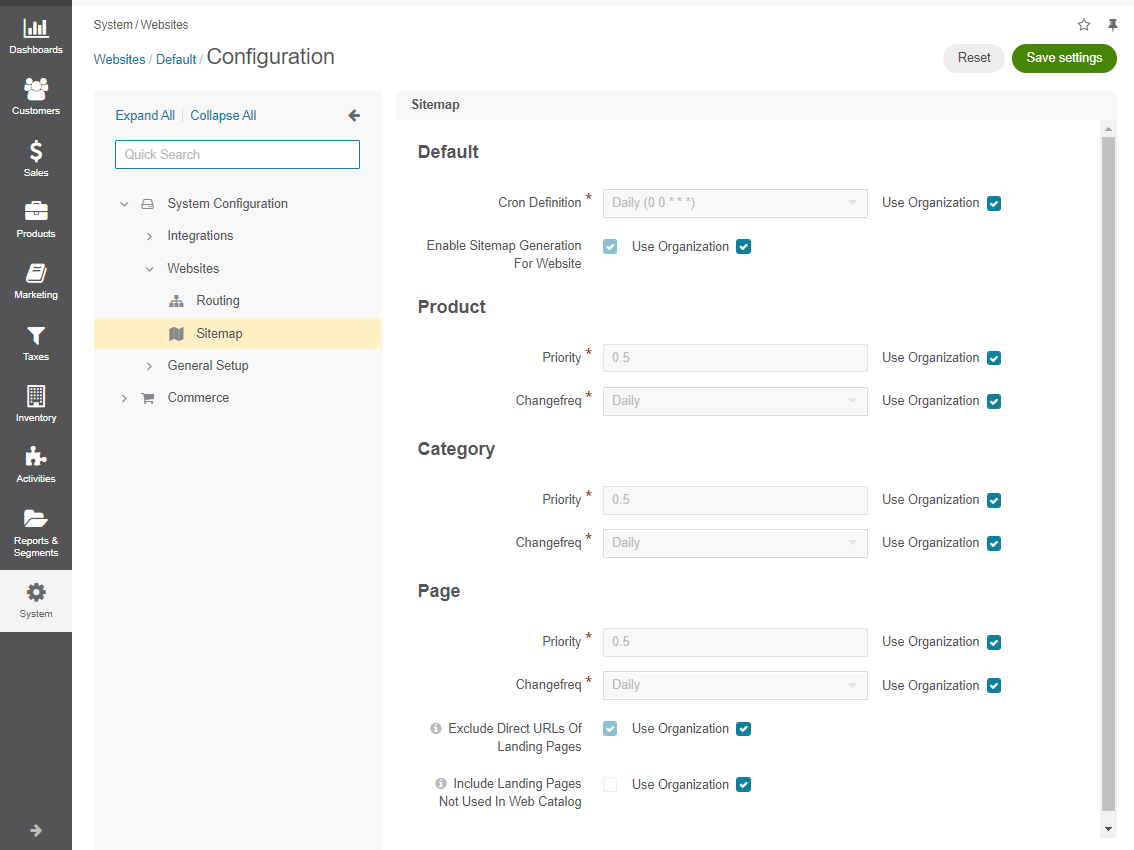
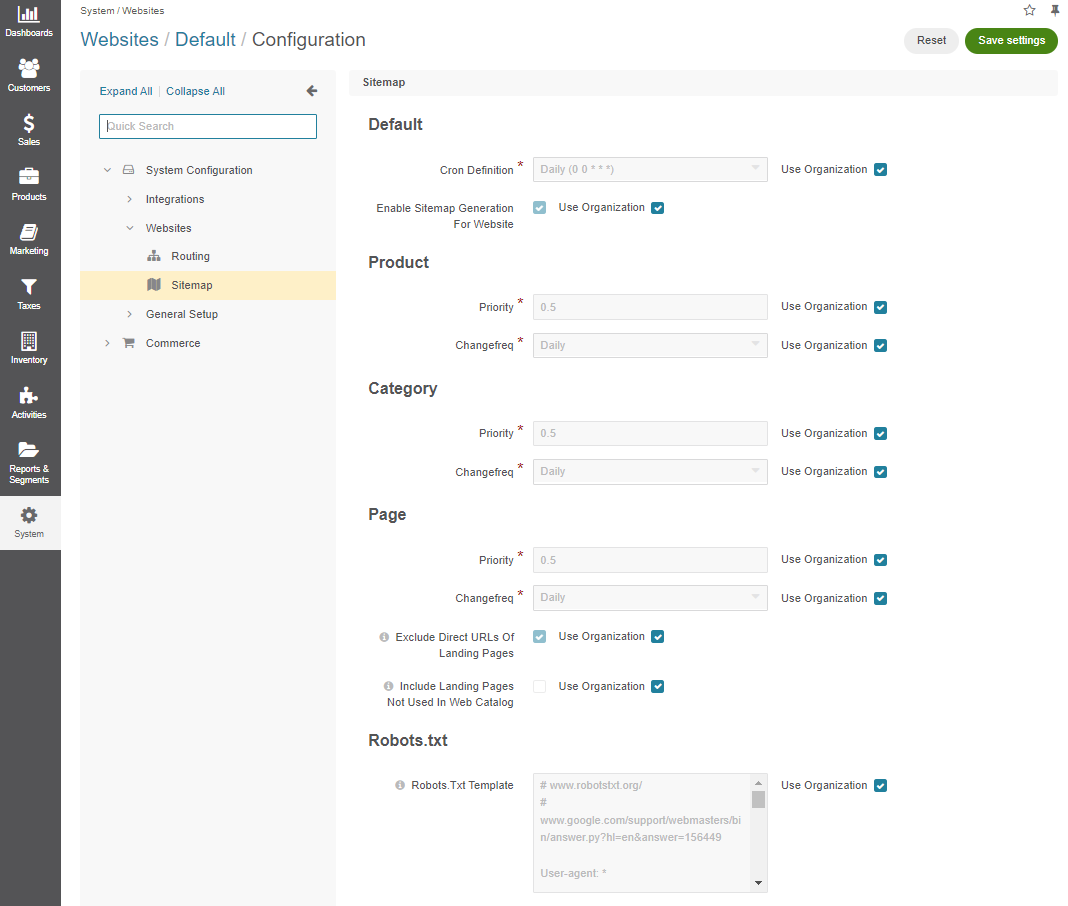
BB-22555: Robots.txt Configuration (#37774)
* BB-23715: Update robots.txt.dist files with default content (#37746)

* BB-23713: Add system configuration option
- added system configuration "Robots.txt Template";
- added RobotsTxtTemplateManager to simplify work with robots.txt.dist template;
- added RobotsTxtTemplateSystemConfigFormOptionsListener to set default value for configuration option "oro_seo.sitemap_robots_txt_template";
- added ScheduleSitemapGenerationOnRobotsTxtTemplateChangeListener to schedules generation of sitemap files if Robots.txt Template configuration option value was changed;
- used RobotsTxtTemplateManager in CopyRobotsTxtTemplateListener

* BB-23713: Add system configuration option

* BB-23714: Use the robots.txt template from system config
- renamed RobotsTxtTemplateManager to RobotsTxtDistTemplateManager;
- added RobotsTxtTemplateManager to provide robots.txt template from oro_seo.sitemap_robots_txt_template system configuration option of from RobotsTxtDistTemplateManager;
- used RobotsTxtDistTemplateManager in the RobotsTxtTemplateSystemConfigFormOptionsListener

* BB-23715: Update robots.txt.dist files with default content

* DOC-2184: Document the Robots.txt config option

* BB-23844: Behat tests (#37779)

- added openTheRobotsTxtUrl step for SEOBundle behat context
- added ability to assert multiline text on page
- added behat tests
- updated CHANGELOG.md
- added gridfs-skip behat tag
- moved gridfs-skip tagged behats to weekly

diff --git a/user/back-office/system/user-management/organizations/org-configuration/general-setup-org/organization-sitemap.rst b/user/back-office/system/user-management/organizations/org-configuration/general-setup-org/organization-sitemap.rst
@@ -1,0 +1,23 @@
+.. _organization-config-website-sitemap:
+
+Configure Website Sitemap Settings per Organization
+===================================================
+
+You can control the way sitemap is generated for specific organization in OroCommerce:
+
+1. Navigate to **System > Configuration > User Management > Organizations** in the main menu.
+
+2. For the necessary organization, click the |IcMore| **More Options** menu at the end of the row, and then click the |IcConfig| **Configure** icon to start editing the configuration.
+
+3. Select **System Configuration > Websites > Sitemap** in the menu to the left.
+
+   .. note:: For faster navigation between the configuration menu sections, use :ref:`Quick Search <user-guide--system-configuration--quick-search>`.
+
+4. Under **Robots.txt**, a user can modify **Robots.Txt Template**, granting or restricting permission for site crawlers to navigate through the specified URLs within your website domain. Initially, the system obtains the default values from the *config/robots.txt.dist* or *robots.%domain.name%.txt* files automatically. Once a user modifies the values in the **Robots.Txt Template** configuration, the system starts adhering to these adjusted values only, subsequently updating the *robots.txt* and *sitemap* files accordingly.
+
+   .. image:: /user/img/system/user_management/org_configuration/websites/sitemap-org.png
+
+5. Click **Save**.
+
+.. include:: /include/include-images.rst
+   :start-after: begin

diff --git a/user/back-office/system/user-management/organizations/org-configuration/general-setup-org/index.rst b/user/back-office/system/user-management/organizations/org-configuration/general-setup-org/index.rst
@@ -14,6 +14,7 @@ Learn how to configure localization options, currency and tracking, as well and 
   * :ref:`Currency <admin-configuration-currency-org>`
   * :ref:`Upload Settings <configuration-guide--system-configuration--general-setup-sysconfig--upload-settings-organization>`
   * :ref:`Website Routing Settings <organization-config-website-routing>`
+  * :ref:`Website Sitemap Settings <organization-config-website-sitemap>`
   * :ref:`Google Settings <organization-google-settings>`
   * :ref:`Microsoft Settings <organization-configuration-microsoft>`
 
@@ -27,4 +28,5 @@ Learn how to configure localization options, currency and tracking, as well and 
    Currency <organization-currency>
    Upload Settings <organization-upload-settings>
    Routing Settings <organization-routing>
+   Sitemap Settings <organization-sitemap>
    Integrations <integrations/index>

diff --git a/user/back-office/system/websites/web-configuration/general-sys-config/websites/website-sitemap.rst b/user/back-office/system/websites/web-configuration/general-sys-config/websites/website-sitemap.rst
@@ -36,8 +36,9 @@ Possible combinations
 .. image:: /user/img/system/config_system/sitemap-config-options.png
    :alt: Table that explains what landing pages are included and excluded into the sitemap file depending on the selected config options
 
+6. Under **Robots.txt**, a user can modify **Robots.Txt Template**, granting or restricting permission for site crawlers to navigate through the specified URLs within your website domain. Initially, the system obtains the default values from the *config/robots.txt.dist* or *robots.%domain.name%.txt* files automatically. Once a user modifies the values in the **Robots.Txt Template** configuration, the system starts adhering to these adjusted values only, subsequently updating the *robots.txt* and *sitemap* files accordingly.
 
-6. Click **Save**.
+7. Click **Save**.
 
 
 .. finish

diff --git a/user/back-office/system/configuration/system/websites/global-sitemap.rst b/user/back-office/system/configuration/system/websites/global-sitemap.rst
@@ -33,6 +33,7 @@ Possible combinations
 .. image:: /user/img/system/config_system/sitemap-config-options.png
    :alt: Table that explains what landing pages are included and excluded into the sitemap file depending on the selected config options
 
+5. Under **Robots.txt**, a user can modify **Robots.Txt Template**, granting or restricting permission for site crawlers to navigate through the specified URLs within your website domain. Initially, the system obtains the default values from the *config/robots.txt.dist* or *robots.%domain.name%.txt* files automatically. Once a user modifies the values in the **Robots.Txt Template** configuration, the system starts adhering to these adjusted values only, subsequently updating the *robots.txt* and *sitemap* files accordingly.
 
-5. Click **Save**.
+6. Click **Save**.
 
